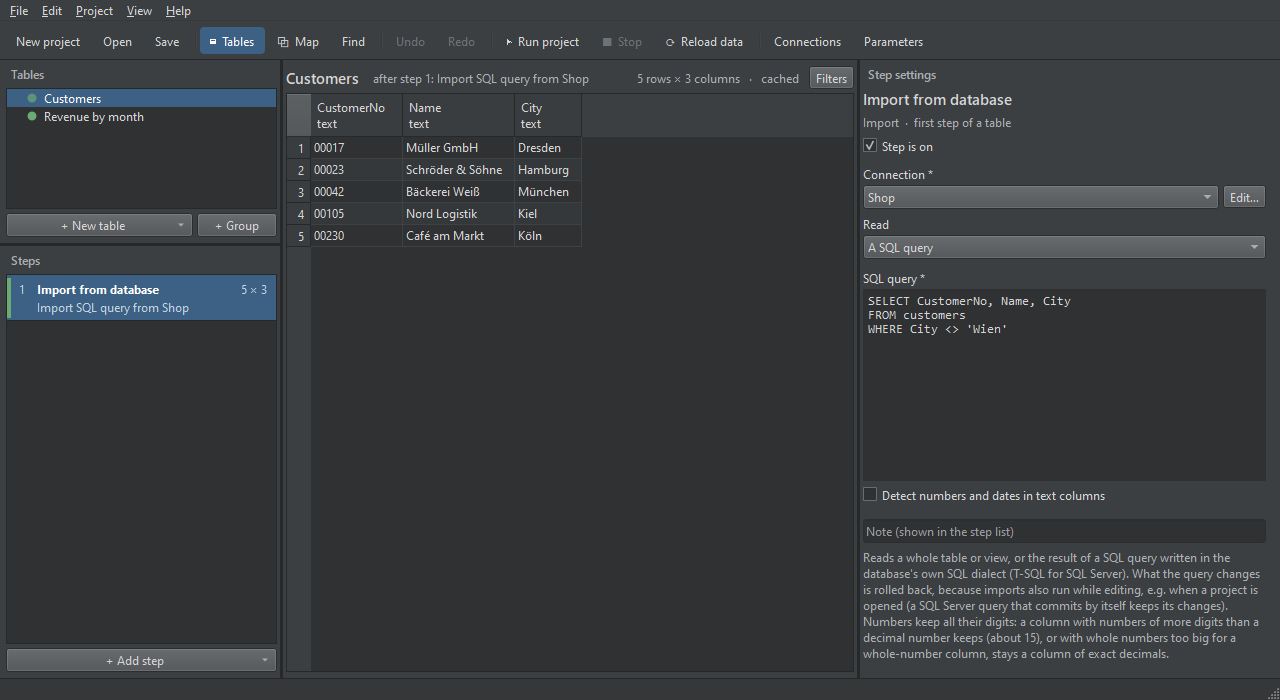
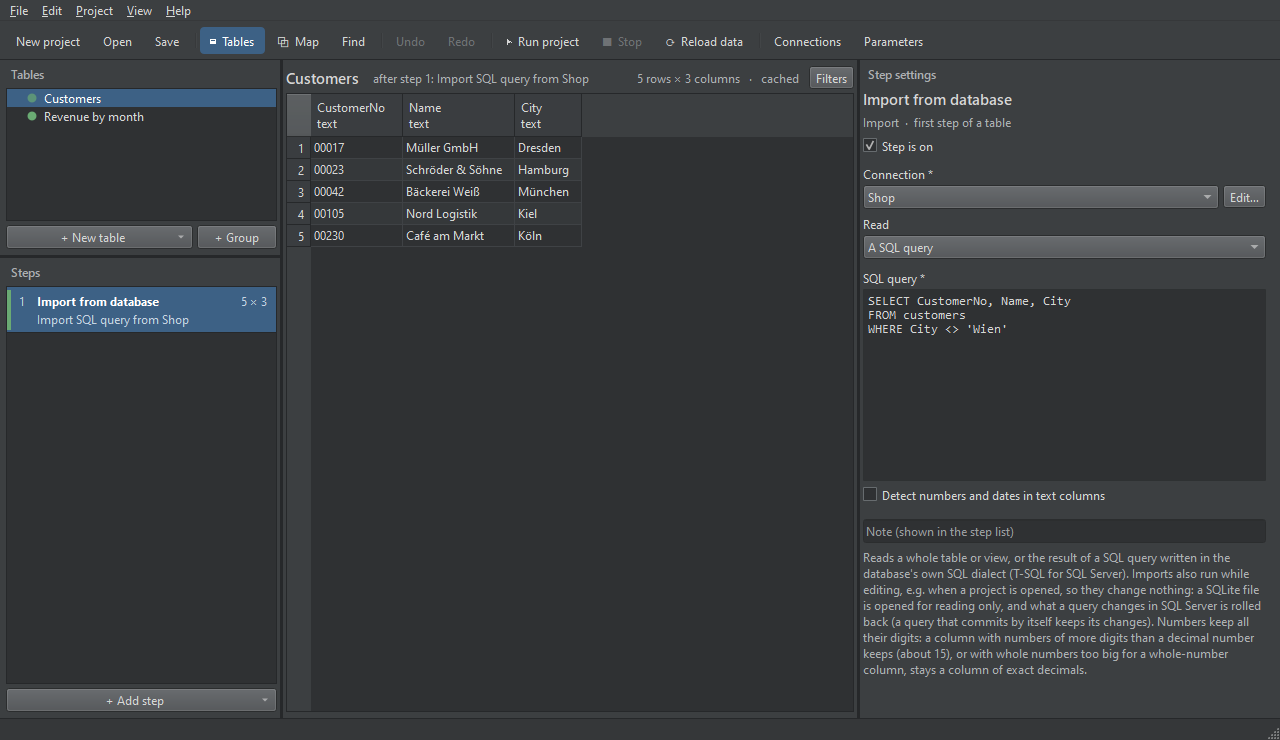
Guide: the picture of a database import shows its new help text
The help text is longer since SQLite imports only read, and the settings
scrolled at the old size of the picture.

diff --git a/tools/guide_screenshots.py b/tools/guide_screenshots.py
@@ -1474,7 +1474,7 @@ def connections_sqlserver(ex: Examples, shot: Callable[..., Shot]) -> QPixmap:
 
 @picture("db-import", "Import from database: a SQL query on the SQLite connection Shop")
 def db_import(ex: Examples, shot: Callable[..., Shot]) -> QPixmap:
-    s = shot(size=(1280, 700))  # 5 rows: no room for an empty grid
+    s = shot(size=(1280, 740))  # 5 rows: no room for an empty grid, but for the help text
     s.open(ex.database(), "Customers", 1)
     return s.picture()
 
